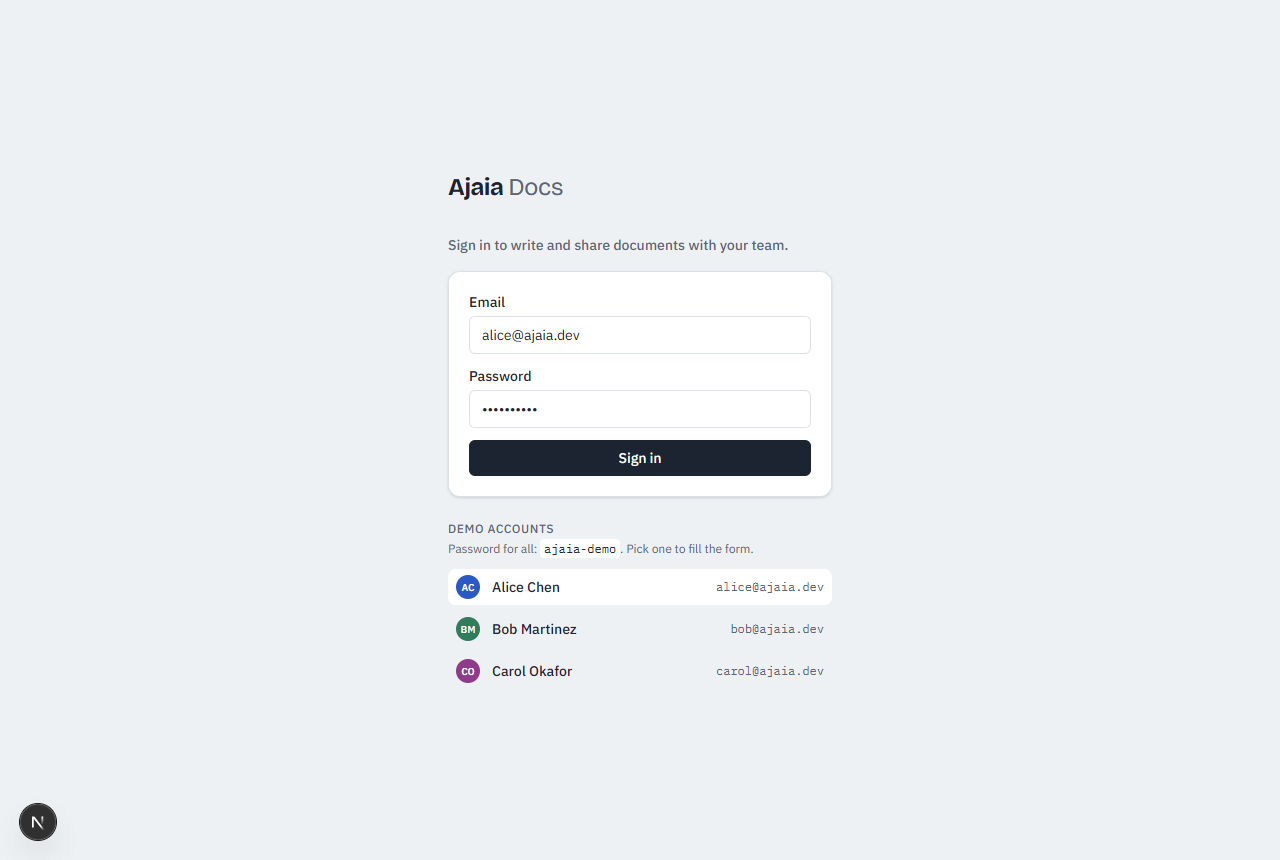
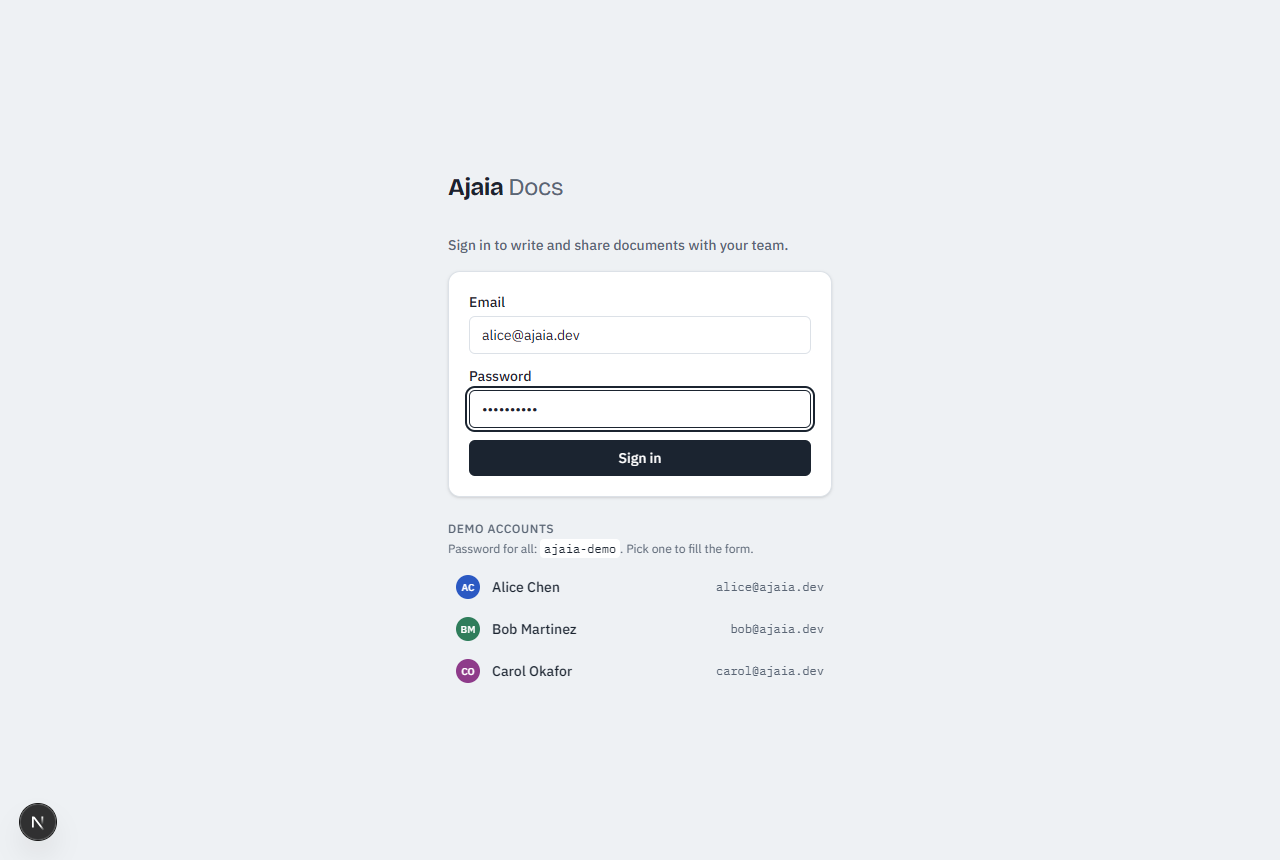
fix: share dialog no longer clears an email typed during an in-flight share
Also adds the browser walkthrough as npm run e2e (cleans up after itself,
safe against production) and refreshes screenshots and docs.

diff --git a/components/editor/ShareDialog.tsx b/components/editor/ShareDialog.tsx
@@ -68,7 +68,9 @@ export function ShareDialog({ docId, title, owner, open, onClose }: Props) {
 
   async function onSubmit(event: FormEvent) {
     event.preventDefault();
-    if (await grant(email, role)) setEmail("");
+    const submitted = email;
+    // Only clear the field if the user hasn't started typing another address meanwhile.
+    if (await grant(submitted, role)) setEmail((current) => (current === submitted ? "" : current));
   }
 
   async function revoke(userId: string) {

diff --git a/AI_WORKFLOW.md b/AI_WORKFLOW.md
@@ -45,6 +45,9 @@
   changing the global install.
 - **Toolchain conflict:** Vitest 5 needs `@types/node` 22 or newer, so I aligned it with the Node 22
   runtime instead of forcing `--legacy-peer-deps`.
+- **A real race condition, found by the browser walkthrough.** If you typed a second email while the
+  first share request was still in flight, the dialog cleared your new input when the first request
+  finished. The fix only clears the field if it still holds the address that was just shared.
 - **Copy consistency:** the seeded doc said "Shared with me" while the UI says "Shared with you". This
   was found by reviewing screenshots, not by tests.
 
@@ -63,9 +66,11 @@ session.
 4. **Browser walkthrough:** a scripted, real-Chrome run of login, formatting, rename and
    reload-persistence, share, viewer read-only, a two-user conflict, .docx import, Markdown export and
    an invalid upload.
-   - The run first failed twice. Both times the cause was my test script (ambiguous selectors, and a
-     non-idempotent run against a persisted database), not the app. Telling those apart is the
-     judgment part.
+   - Its failures had different causes, and telling them apart was the judgment part.
+   - Two were bugs in the test script: ambiguous selectors, and a non-idempotent run against a
+     persisted database.
+   - One was the genuine share-dialog race described above.
+   - The final script is in the repo as `npm run e2e`.
 5. **Visual review** of each screenshot. This caught the copy mismatch and a double focus ring on the
    title field.
 6. **Production smoke test** after deploying: the same flows against the live URL.

diff --git a/ARCHITECTURE.md b/ARCHITECTURE.md
@@ -79,9 +79,10 @@ Defined once in `lib/access.ts`; every service function calls `authorize(user, d
   rejection of unsupported / oversized / corrupt files, HTML → Markdown.
 - **Session tokens**: round-trip, tampering, wrong secret, expiry.
 
-Beyond unit tests, I ran a scripted headless-browser walkthrough of every flow (login, formatting,
-rename + reload persistence, sharing, viewer read-only, concurrent-edit conflict, .docx import,
-Markdown export, invalid upload) — the screenshots in `docs/screenshots/` come from that run.
+Beyond unit tests, `npm run e2e` drives real Chrome through every flow (login, formatting, rename +
+reload persistence, sharing, viewer read-only, concurrent-edit conflict, .docx import, Markdown export,
+invalid upload) against any running deployment, cleaning up after itself. The screenshots in
+`docs/screenshots/` come from that run, and it found a real race in the share dialog (see AI_WORKFLOW.md).
 
 ## Deliberately out of scope
 
@@ -97,5 +98,5 @@ Markdown export, invalid upload) — the screenshots in `docs/screenshots/` come
    column already orders them.
 2. **Presence**: "Bob is also editing" via lightweight polling, so conflicts are anticipated rather than
    discovered.
-3. **Playwright e2e in CI** for the share → view-only → conflict path.
+3. **Run the e2e walkthrough in CI** against preview deployments.
 4. Rate-limit login; proper migrations.

diff --git a/README.md b/README.md
@@ -28,6 +28,14 @@ All seeded accounts share the password **`ajaia-demo`** (the login page lists th
 5. Back on the dashboard: **Import file** with one of the files in [`samples/`](samples/) (`.docx`, `.md`,
    `.txt`), then **Export .md** from the editor.
 
+## Screenshots
+
+| Editor | Sharing |
+|---|---|
+| ![Editor](docs/screenshots/03-editor.png) | ![Share dialog](docs/screenshots/04-share-dialog.png) |
+| **Viewer (read-only)** | **Concurrent-edit conflict** |
+| ![Viewer](docs/screenshots/06-viewer.png) | ![Conflict](docs/screenshots/07-conflict.png) |
+
 ## Features
 
 | Area | What works |
@@ -72,7 +80,12 @@ npm test             # Vitest: access rules, sharing + conflict integration test
 npm run typecheck    # tsc --noEmit
 npm run lint         # ESLint (next/core-web-vitals)
 npm run build        # production build
+npm run e2e          # browser walkthrough of every flow against a running app (needs Google Chrome);
+                     # BASE_URL=https://… to target a deployment, SCREENSHOTS=1 to refresh docs/screenshots
 ```
+
+The e2e walkthrough works in its own new document and deletes what it creates, so it is safe to run
+against production.
 
 Tests run against a fresh in-memory PGlite database per file — the same SQL as production, no mocks.
 
